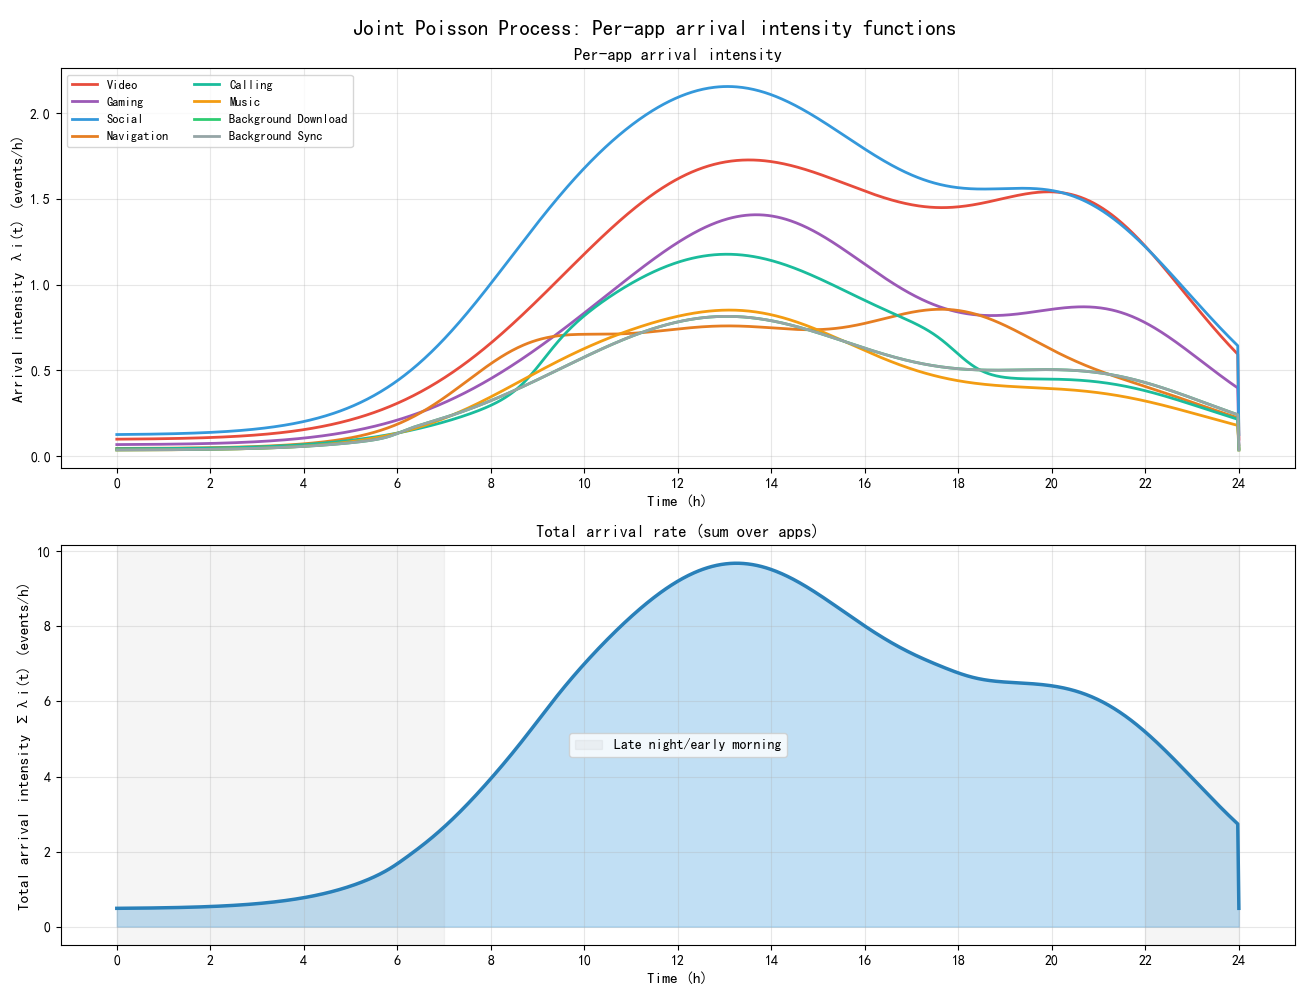
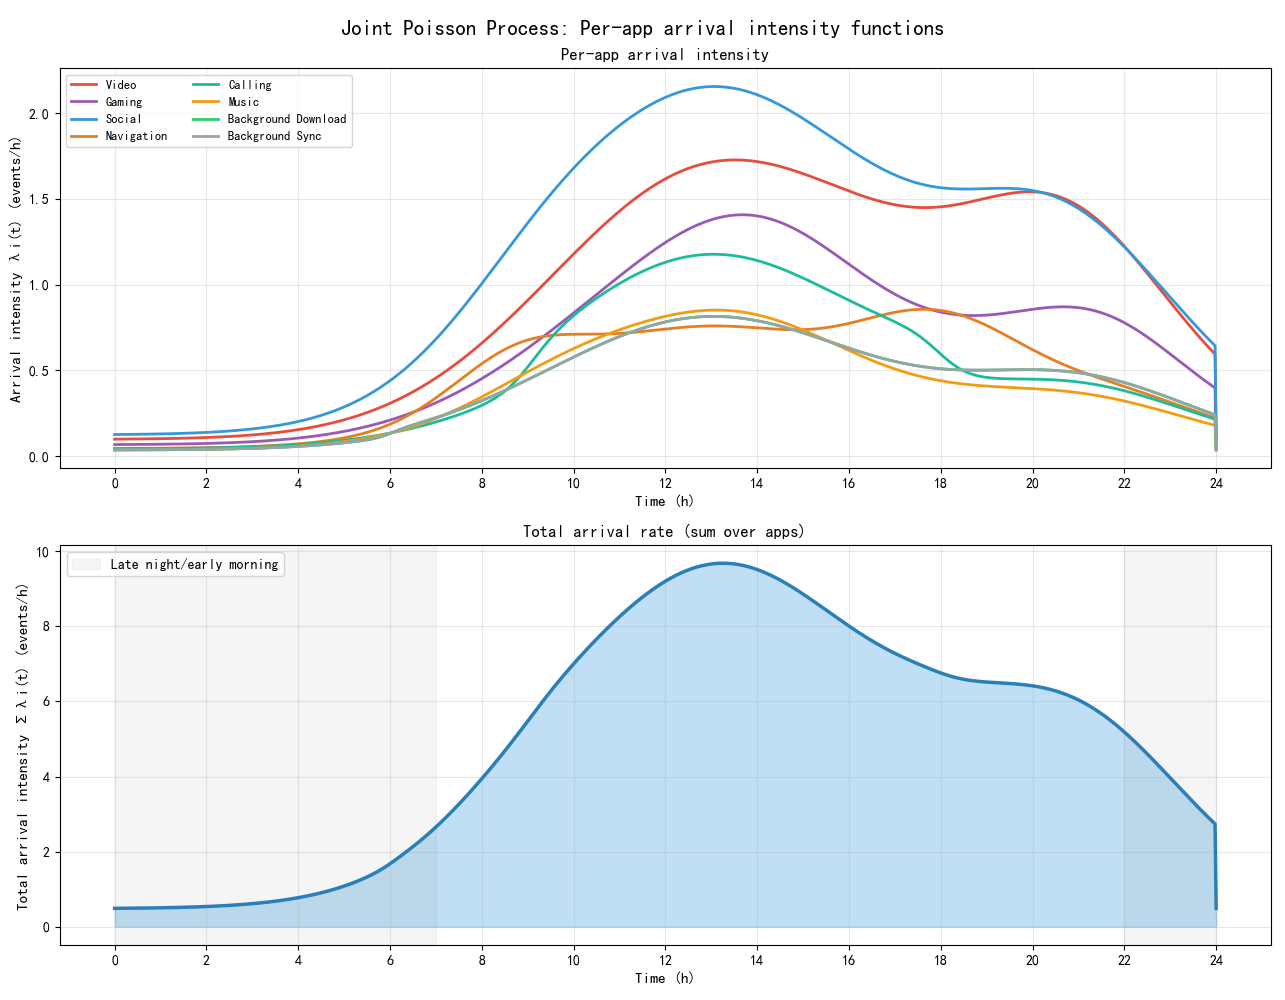
敏感性分析（为了让龙卷风图更明显，可能有误）

diff --git a/code_5.py b/code_5.py
@@ -64,10 +64,10 @@ NET_PARAMS = {
 }
 GPS_POWER = {'off': 0.0, 'on': 49.2, 'locating': 444.9}
 
-def calc_P_screen(B):
+def calc_P_screen(B,bs):
     return bs * B * S_screen
 
-def calc_P_cpu(u):
+def calc_P_cpu(u,Pcpumax, b_cpu):
     return b_cpu + (Pcpumax - b_cpu) * u
 
 def calc_P_net(net_state, r):
@@ -242,20 +242,20 @@ def lambda_total(t_sec):
 # ===============================================================
 # 基础待机功耗
 # ===============================================================
-def calc_P_base():
-    return calc_P_screen(0.0) + calc_P_cpu(0.02) + calc_P_net('WIFI6', 0.0) + calc_P_gps('off')
+def calc_P_base(bs, Pcpumax, b_cpu):
+    return calc_P_screen(0.0,bs) + calc_P_cpu(0.02,Pcpumax,b_cpu) + calc_P_net('WIFI6', 0.0) + calc_P_gps('off')
 
-P_BASE = calc_P_base()
+P_BASE = calc_P_base(bs, Pcpumax, b_cpu)
 print(f"\n基础待机功耗 P_base = {P_BASE*1000:.2f} mW\n")
 
 
 # ===============================================================
 # 事件功耗贡献（增量，去除 base 部分）
 # ===============================================================
-def calc_event_power(event):
+def calc_event_power(event, bs, Pcpumax, b_cpu):
     app = APP_TYPES[event['app_type']]
-    P_scr     = calc_P_screen(event['B'])
-    P_cpu_inc = calc_P_cpu(event['u'])   - calc_P_cpu(0.02)
+    P_scr     = calc_P_screen(event['B'],bs)
+    P_cpu_inc = calc_P_cpu(event['u'],Pcpumax,b_cpu)   - calc_P_cpu(0.02,Pcpumax,b_cpu)
     P_net_inc = calc_P_net(app['net_state'], event['r']) - calc_P_net('WIFI6', 0.0)
     P_gps_inc = calc_P_gps(app['gps_state']) - calc_P_gps('off')
     return max(P_scr + P_cpu_inc + P_net_inc + P_gps_inc, 0.0)
@@ -293,9 +293,9 @@ def sample_event(t_start, app_type):
 # ===============================================================
 # 热模型参数
 # ===============================================================
-Cth  = 40.0    # J/K  热容
-Tamb = 25.0    # °C   环境温度
-h_th = 20.0*0.0128    # W/K  散热系数
+#Cth  = 40.0    # J/K  热容
+#Tamb = 25.0    # °C   环境温度
+#h_th = 20.0*0.0128    # W/K  散热系数
 
 # 热贡献权重系数
 W_LOSS   = 1.0
@@ -359,19 +359,19 @@ def calc_Qeff(Q_aging):
 # ===============================================================
 # 分解各模块功耗
 # ===============================================================
-def calc_module_powers(active_set):
+def calc_module_powers(active_set,bs, Pcpumax, b_cpu):   
     P_cpu  = 0.0
     P_scr  = 0.0
     P_net  = 0.0
     P_gps  = 0.0
     for ev in active_set:
         app = APP_TYPES[ev['app_type']]
-        P_scr  += calc_P_screen(ev['B'])
-        P_cpu  += calc_P_cpu(ev['u']) - calc_P_cpu(0.02)
+        P_scr  += calc_P_screen(ev['B'],bs)
+        P_cpu  += calc_P_cpu(ev['u'],Pcpumax,b_cpu) - calc_P_cpu(0.02,Pcpumax,b_cpu)
         P_net  += calc_P_net(app['net_state'], ev['r']) - calc_P_net('WIFI6', 0.0)
         P_gps  += calc_P_gps(app['gps_state']) - calc_P_gps('off')
-    P_cpu  += calc_P_cpu(0.02)
-    P_scr  += calc_P_screen(0.0)
+    P_cpu  += calc_P_cpu(0.02,Pcpumax,b_cpu)
+    P_scr  += calc_P_screen(0.0,bs)
     P_net  += calc_P_net('WIFI6', 0.0)
     P_gps  += calc_P_gps('off')
     return P_cpu, P_scr, P_net, P_gps
@@ -380,7 +380,7 @@ def calc_module_powers(active_set):
 # ===============================================================
 # 核心仿真函数（联合泊松过程版本）
 # ===============================================================
-def run_joint_poisson_simulation(Q_aging, T_sim=86400, dt=10.0):
+def run_joint_poisson_simulation(Q_aging, T_sim, dt, bs, Pcpumax, b_cpu, Cth, Tamb, h_th):
     """
     联合泊松过程 + Thevenin ECM + 一阶热模型 耦合仿真
     
@@ -395,9 +395,9 @@ def run_joint_poisson_simulation(Q_aging, T_sim=86400, dt=10.0):
         dt: 时间步长（秒）
     """
     Qeff   = calc_Qeff(Q_aging)
-    tau_th = Cth / h_th
+    #tau_th = Cth / h_th
     lam2   = calc_lambda2(Q_aging)
-
+    #print(Cth)
     # 时间序列初始化
     n_steps = int(T_sim / dt)
     t_arr       = np.zeros(n_steps)
@@ -465,8 +465,8 @@ def run_joint_poisson_simulation(Q_aging, T_sim=86400, dt=10.0):
         return dsdt, dVrcdt, IL, Voc, VL, Ploss
 
     # RK4 积分
-    def rk4_step_ecm(soc_in, Vrc_in, Temp_in, P_load, Q_other, h_step):
-        def deriv_total(s, v, T):
+    def rk4_step_ecm(soc_in, Vrc_in, Temp_in, P_load, Q_other, h_step,Cth,Tamb,h_th):
+        def deriv_total(s, v, T, P_load = P_load, Q_other=Q_other, Cth=Cth, Tamb=Tamb, h_th=h_th):
             dsdt, dVrcdt, IL, Voc, VL, Ploss = deriv_ecm(s, v, T, P_load)
             Q_source = W_LOSS * Ploss + Q_other
             Q_source = np.clip(Q_source, -1e3, 1e3)
@@ -474,22 +474,22 @@ def run_joint_poisson_simulation(Q_aging, T_sim=86400, dt=10.0):
             dTdt = np.clip(dTdt, -10.0, 10.0)
             return dsdt, dVrcdt, dTdt, IL, Voc, VL, Ploss
 
-        ds1, dv1, dT1, _, _, _, _ = deriv_total(soc_in, Vrc_in, Temp_in)
+        ds1, dv1, dT1, _, _, _, _ = deriv_total(soc_in, Vrc_in, Temp_in, P_load, Q_other, Cth, Tamb, h_th)
 
         s2 = soc_in  + 0.5 * h_step * ds1
         v2 = Vrc_in  + 0.5 * h_step * dv1
         T2 = np.clip(Temp_in + 0.5 * h_step * dT1, -50.0, 120.0)
-        ds2, dv2, dT2, _, _, _, _ = deriv_total(s2, v2, T2)
+        ds2, dv2, dT2, _, _, _, _ = deriv_total(s2, v2, T2, P_load, Q_other, Cth, Tamb, h_th)
 
         s3 = soc_in  + 0.5 * h_step * ds2
         v3 = Vrc_in  + 0.5 * h_step * dv2
         T3 = np.clip(Temp_in + 0.5 * h_step * dT2, -50.0, 120.0)
-        ds3, dv3, dT3, _, _, _, _ = deriv_total(s3, v3, T3)
+        ds3, dv3, dT3, _, _, _, _ = deriv_total(s3, v3, T3, P_load, Q_other, Cth, Tamb, h_th)
 
         s4 = soc_in  + h_step * ds3
         v4 = Vrc_in  + h_step * dv3
         T4 = np.clip(Temp_in + h_step * dT3, -50.0, 120.0)
-        ds4, dv4, dT4, _, _, _, _ = deriv_total(s4, v4, T4)
+        ds4, dv4, dT4, _, _, _, _ = deriv_total(s4, v4, T4, P_load, Q_other, Cth, Tamb, h_th)
 
         soc_out  = soc_in + (h_step/6.0) * (ds1 + 2*ds2 + 2*ds3 + ds4)
         Vrc_out  = Vrc_in + (h_step/6.0) * (dv1 + 2*dv2 + 2*dv3 + dv4)
@@ -533,9 +533,9 @@ def run_joint_poisson_simulation(Q_aging, T_sim=86400, dt=10.0):
         active_set = still_active
 
         # ── Step 3: 计算总负载和各模块功耗 ──
-        P_events = sum(calc_event_power(ev) for ev in active_set)
+        P_events = sum(calc_event_power(ev,bs,Pcpumax,b_cpu) for ev in active_set)
         P_load   = P_BASE + P_events
-        P_cpu_e, P_scr_e, P_net_e, P_gps_e = calc_module_powers(active_set)
+        P_cpu_e, P_scr_e, P_net_e, P_gps_e = calc_module_powers(active_set,bs,Pcpumax,b_cpu)
 
         # ── Step 4: 检查 SOC 截止 ──
         if soc <= 0.05:
@@ -555,7 +555,8 @@ def run_joint_poisson_simulation(Q_aging, T_sim=86400, dt=10.0):
                  + W_GPS    * P_gps_e)
 
         soc_new, Vrc_new, T_new, IL_val, Voc_val, VL_val, Ploss_val = \
-            rk4_step_ecm(soc, Vrc, T, P_load, Q_other, dt)
+            rk4_step_ecm(soc, Vrc, T, P_load, Q_other, dt, Cth, Tamb, h_th)
+        #print(Cth)
         soc_new = max(soc_new, 0.05)
 
         # 记录
@@ -986,20 +987,20 @@ dt = 10.0  # 时间步长
 # 定义用于敏感性分析的可变参数
 params = {
     'bs': [2.464, 3.0, 4.0],  # 屏幕亮度常数
-    'Pcpumax': [4.0, 5.0, 6.0],  # 最大CPU功率
-    'b_cpu': [0.1, 0.2, 0.3],  # CPU功率系数
-    'Cth': [40.0, 45.0, 50.0],  # 热容
-    'Tamb': [25.0, 30.0, 35.0],  # 环境温度
-    'h_th': [0.0128, 0.015, 0.018],  # 散热系数
-    'Q_aging': [0, 100, 500, 1000, 5000],  # 电池老化量
+    'Pcpumax': [4.0, 5.0, 6.0,2.0],  # 最大CPU功率
+    'b_cpu': [0.1, 0.2, 0.3,0.05],  # CPU功率系数
+    'Cth': [40.0, 0.5, 40e-4],  # 热容
+    'Tamb': [25.0, -10.0, 60.0],  # 环境温度
+    'h_th': [20*0.0128,20*0.001, 20*0.04],  # 散热系数
 }
 
 # 用来计算“time to empty”的辅助函数
-def calculate_time_to_empty(Q_aging, bs, Pcpumax, b_cpu, Cth, Tamb, h_th):
+def calculate_time_to_empty(bs, Pcpumax, b_cpu, Cth, Tamb, h_th):
     """
     使用run_joint_poisson_simulation来计算时间直到电池耗尽
     """
-    result = run_joint_poisson_simulation(Q_aging=Q_aging, T_sim=T_sim, dt=dt)
+    
+    result = run_joint_poisson_simulation(Q_aging=0, T_sim=T_sim, dt=dt, bs=bs, Pcpumax=Pcpumax, b_cpu=b_cpu, Cth=Cth, Tamb=Tamb, h_th=h_th)
     return result['discharge_time_h']  # 返回耗尽时间（小时）
 
 # 进行敏感性分析
@@ -1010,11 +1011,23 @@ def perform_sensitivity_analysis():
     # 存储每个参数对time to empty的影响
     sensitivity_results = []
 
+    # 计算基准量（使用原始参数值）
+    base_time_to_empty = calculate_time_to_empty(
+        bs=2.464,  # 屏幕亮度
+        Pcpumax=4.0,  # 最大CPU功率
+        b_cpu=0.1,  # CPU功率系数
+        Cth=40.0,  # 热容
+        Tamb=25.0,  # 环境温度
+        h_th=20*0.0128  # 散热系数
+    )
+    
     # 对每个参数进行敏感性分析
     for param_name, param_values in params.items():
         time_to_empty_results = []
+          # 保持随机种子一致以减少随机性影响
         
         for value in param_values:
+            np.random.seed(42)
             # 修改一个参数值并进行仿真
             # 注意：其它参数保持初始值
             modified_params = {
@@ -1023,14 +1036,12 @@ def perform_sensitivity_analysis():
                 'b_cpu': 0.1,  # 使用默认值
                 'Cth': 40.0,  # 使用默认值
                 'Tamb': 25.0,  # 使用默认值
-                'h_th': 0.0128,  # 使用默认值
-                'Q_aging': 100,  # 使用默认值
+                'h_th': 20*0.0128,  # 使用默认值
             }
             modified_params[param_name] = value
             
             # 运行仿真并计算“time to empty”
             time_to_empty = calculate_time_to_empty(
-                Q_aging=modified_params['Q_aging'],
                 bs=modified_params['bs'],
                 Pcpumax=modified_params['Pcpumax'],
                 b_cpu=modified_params['b_cpu'],
@@ -1038,7 +1049,9 @@ def perform_sensitivity_analysis():
                 Tamb=modified_params['Tamb'],
                 h_th=modified_params['h_th']
             )
-            time_to_empty_results.append(time_to_empty)
+            # 计算差值（time to empty 减去基准量）
+            time_to_empty_diff = time_to_empty - base_time_to_empty
+            time_to_empty_results.append(time_to_empty_diff)
         
         sensitivity_results.append((param_name, param_values, time_to_empty_results))
     
@@ -1047,19 +1060,32 @@ def perform_sensitivity_analysis():
 
     # 横轴：time to empty的变化
     for i, (param_name, param_values, time_to_empty_results) in enumerate(sensitivity_results):
-        ax.barh(
+        bars = ax.barh(
             [f"{param_name}: {v}" for v in param_values], 
             time_to_empty_results,
             label=param_name
         )
 
-    ax.set_xlabel('Time to Empty (hours)')
-    ax.set_title('Sensitivity Analysis of Battery Life')
+        # Adding value labels to the bars
+        for bar in bars:
+            ax.text(
+                bar.get_width(),  # x position of label (end of the bar)
+                bar.get_y() + bar.get_height() / 2,  # y position (center of the bar)
+                f'{bar.get_width():.2f}',  # Format the value to 2 decimal places
+                va='center',  # Vertically center the text
+                ha='left',  # Align text to the left
+                color='black'  # Text color
+            )
+
+    ax.set_xlabel('Change in Time to Empty (hours)')
+    ax.set_title('Sensitivity Analysis of Battery Life (Difference from Base)')
     ax.legend(title="Parameters", loc='best')
     plt.tight_layout()
     plt.show()
 
+
 # 执行敏感性分析
 perform_sensitivity_analysis()
+
 
 

diff --git a/code_4.py b/code_4.py
@@ -675,8 +675,7 @@ axes1[1].set_xticks(range(0, 25, 2))
 axes1[1].grid(True, alpha=0.3)
 axes1[1].axvspan(0, 7, alpha=0.08, color='gray', label='Late night/early morning')
 axes1[1].axvspan(22, 24, alpha=0.08, color='gray')
-axes1[1].legend(fontsize=10)
-
+axes1[1].legend(fontsize=10, loc='upper left')  # bbox_to_anchor places the legend outside the plot
 plt.tight_layout()
 plt.show()
 
